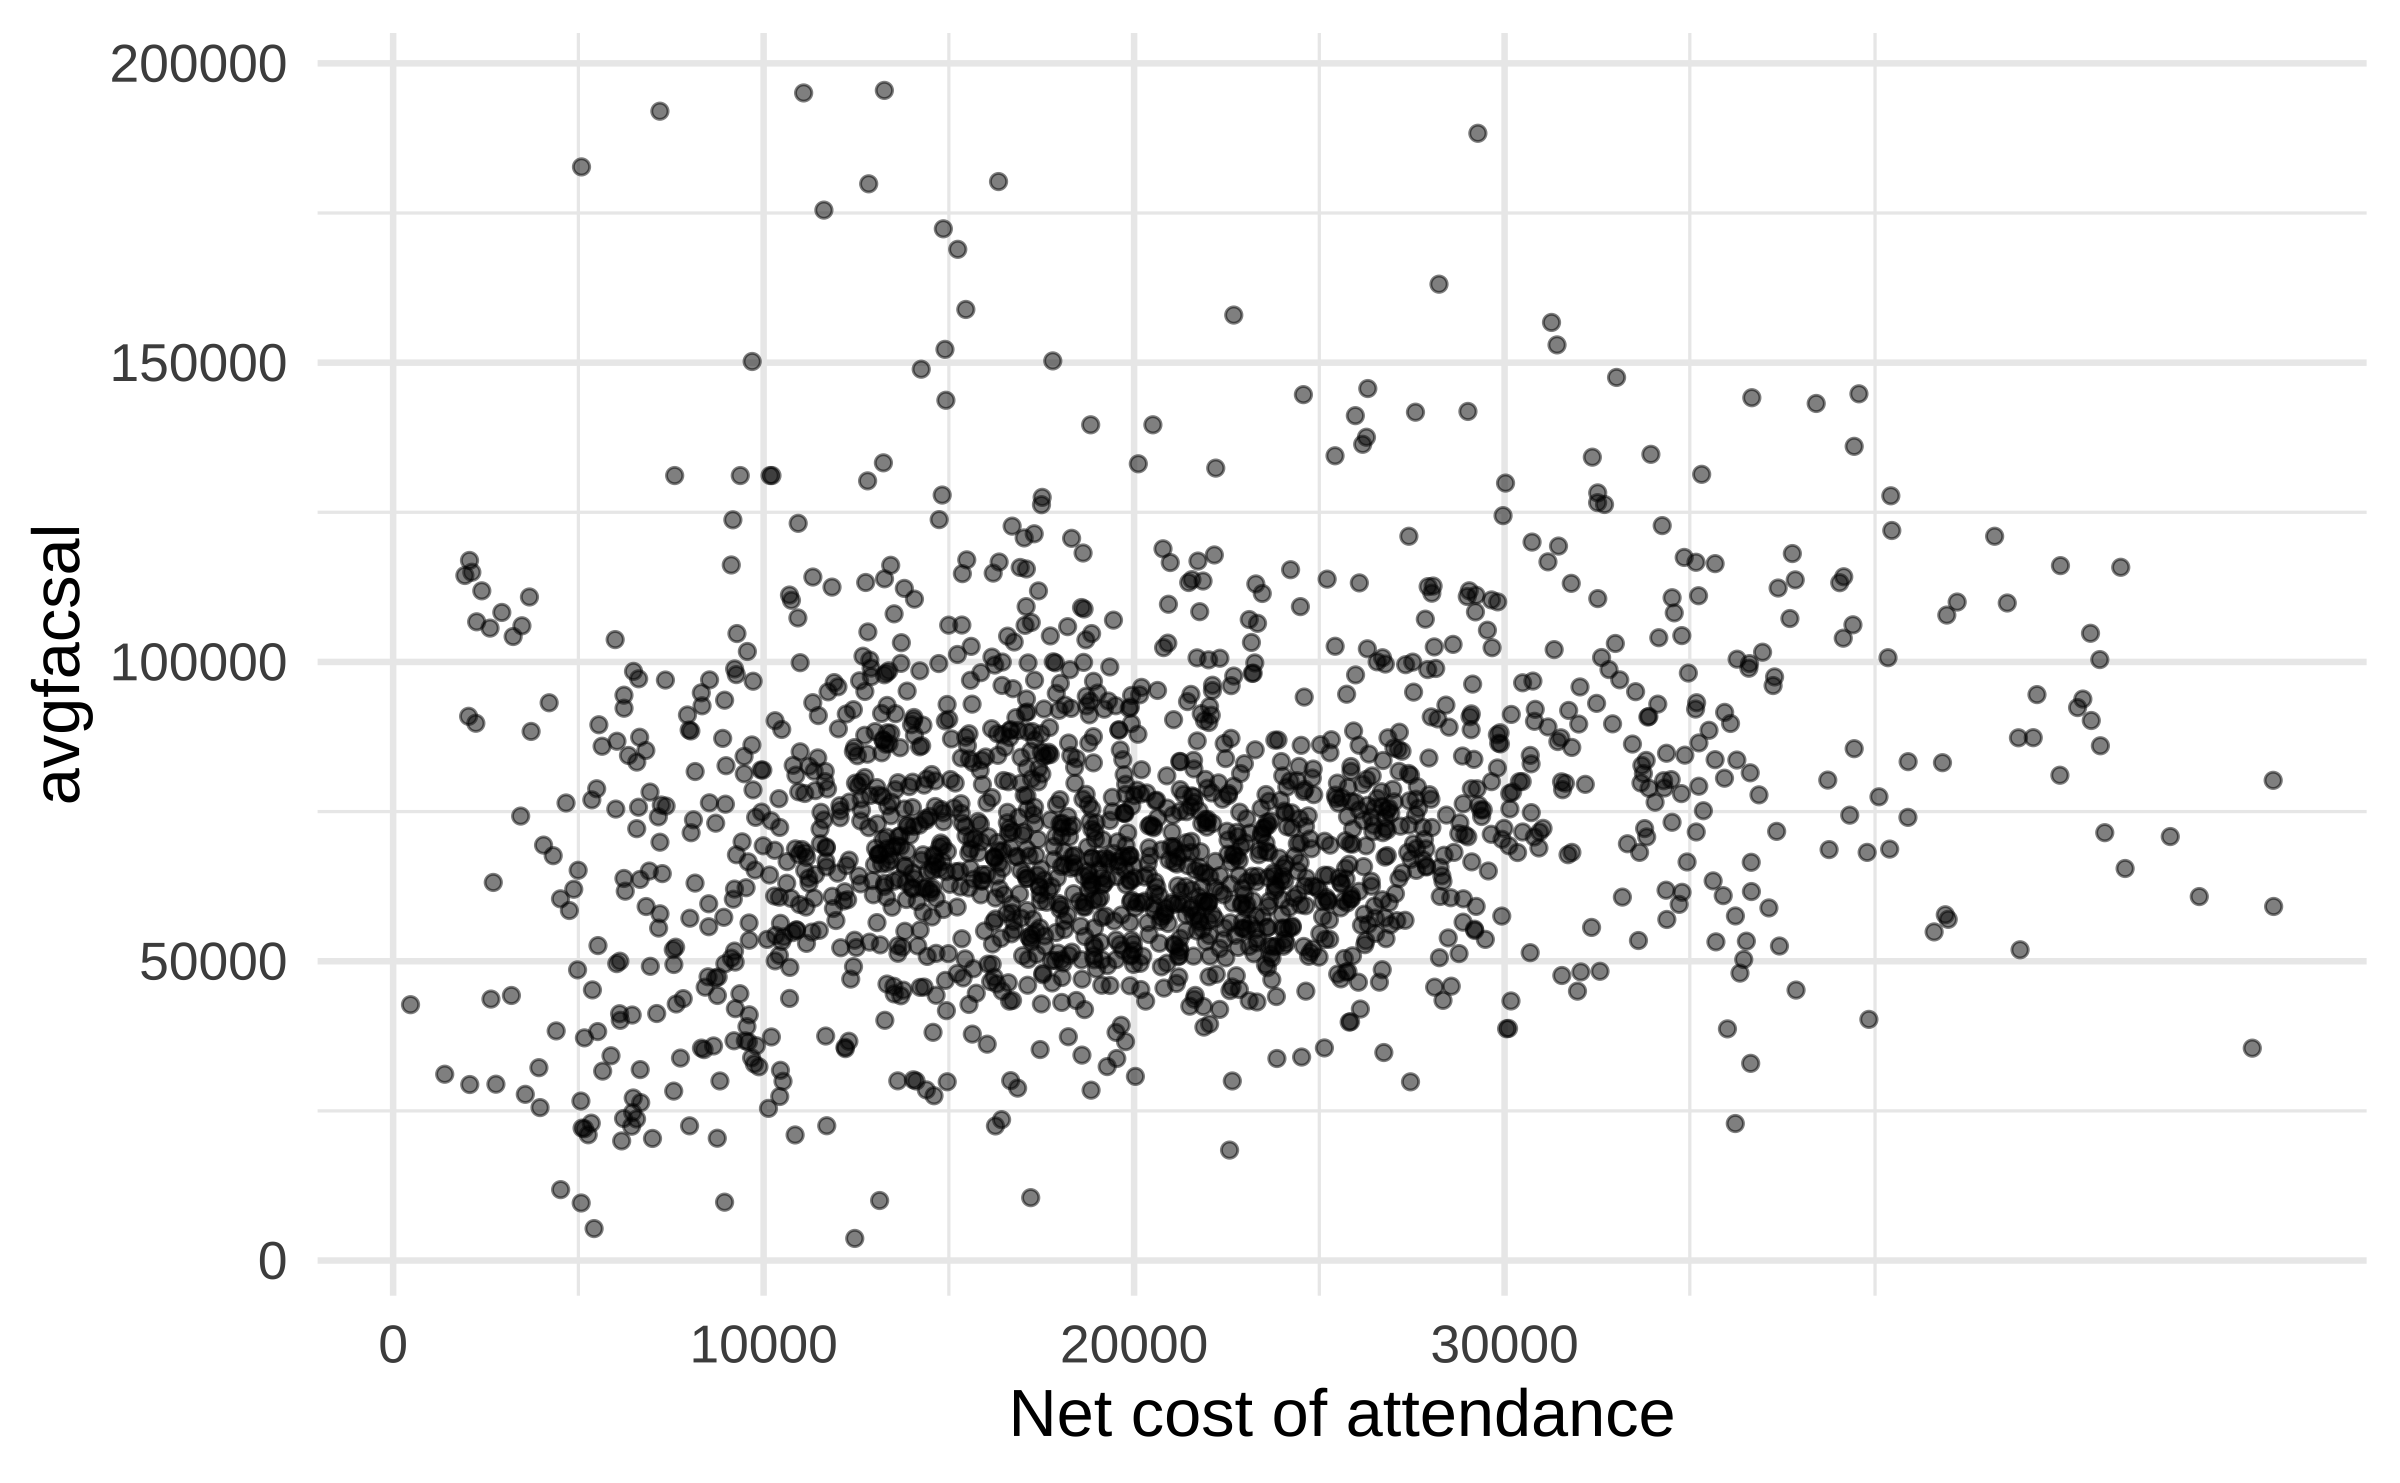
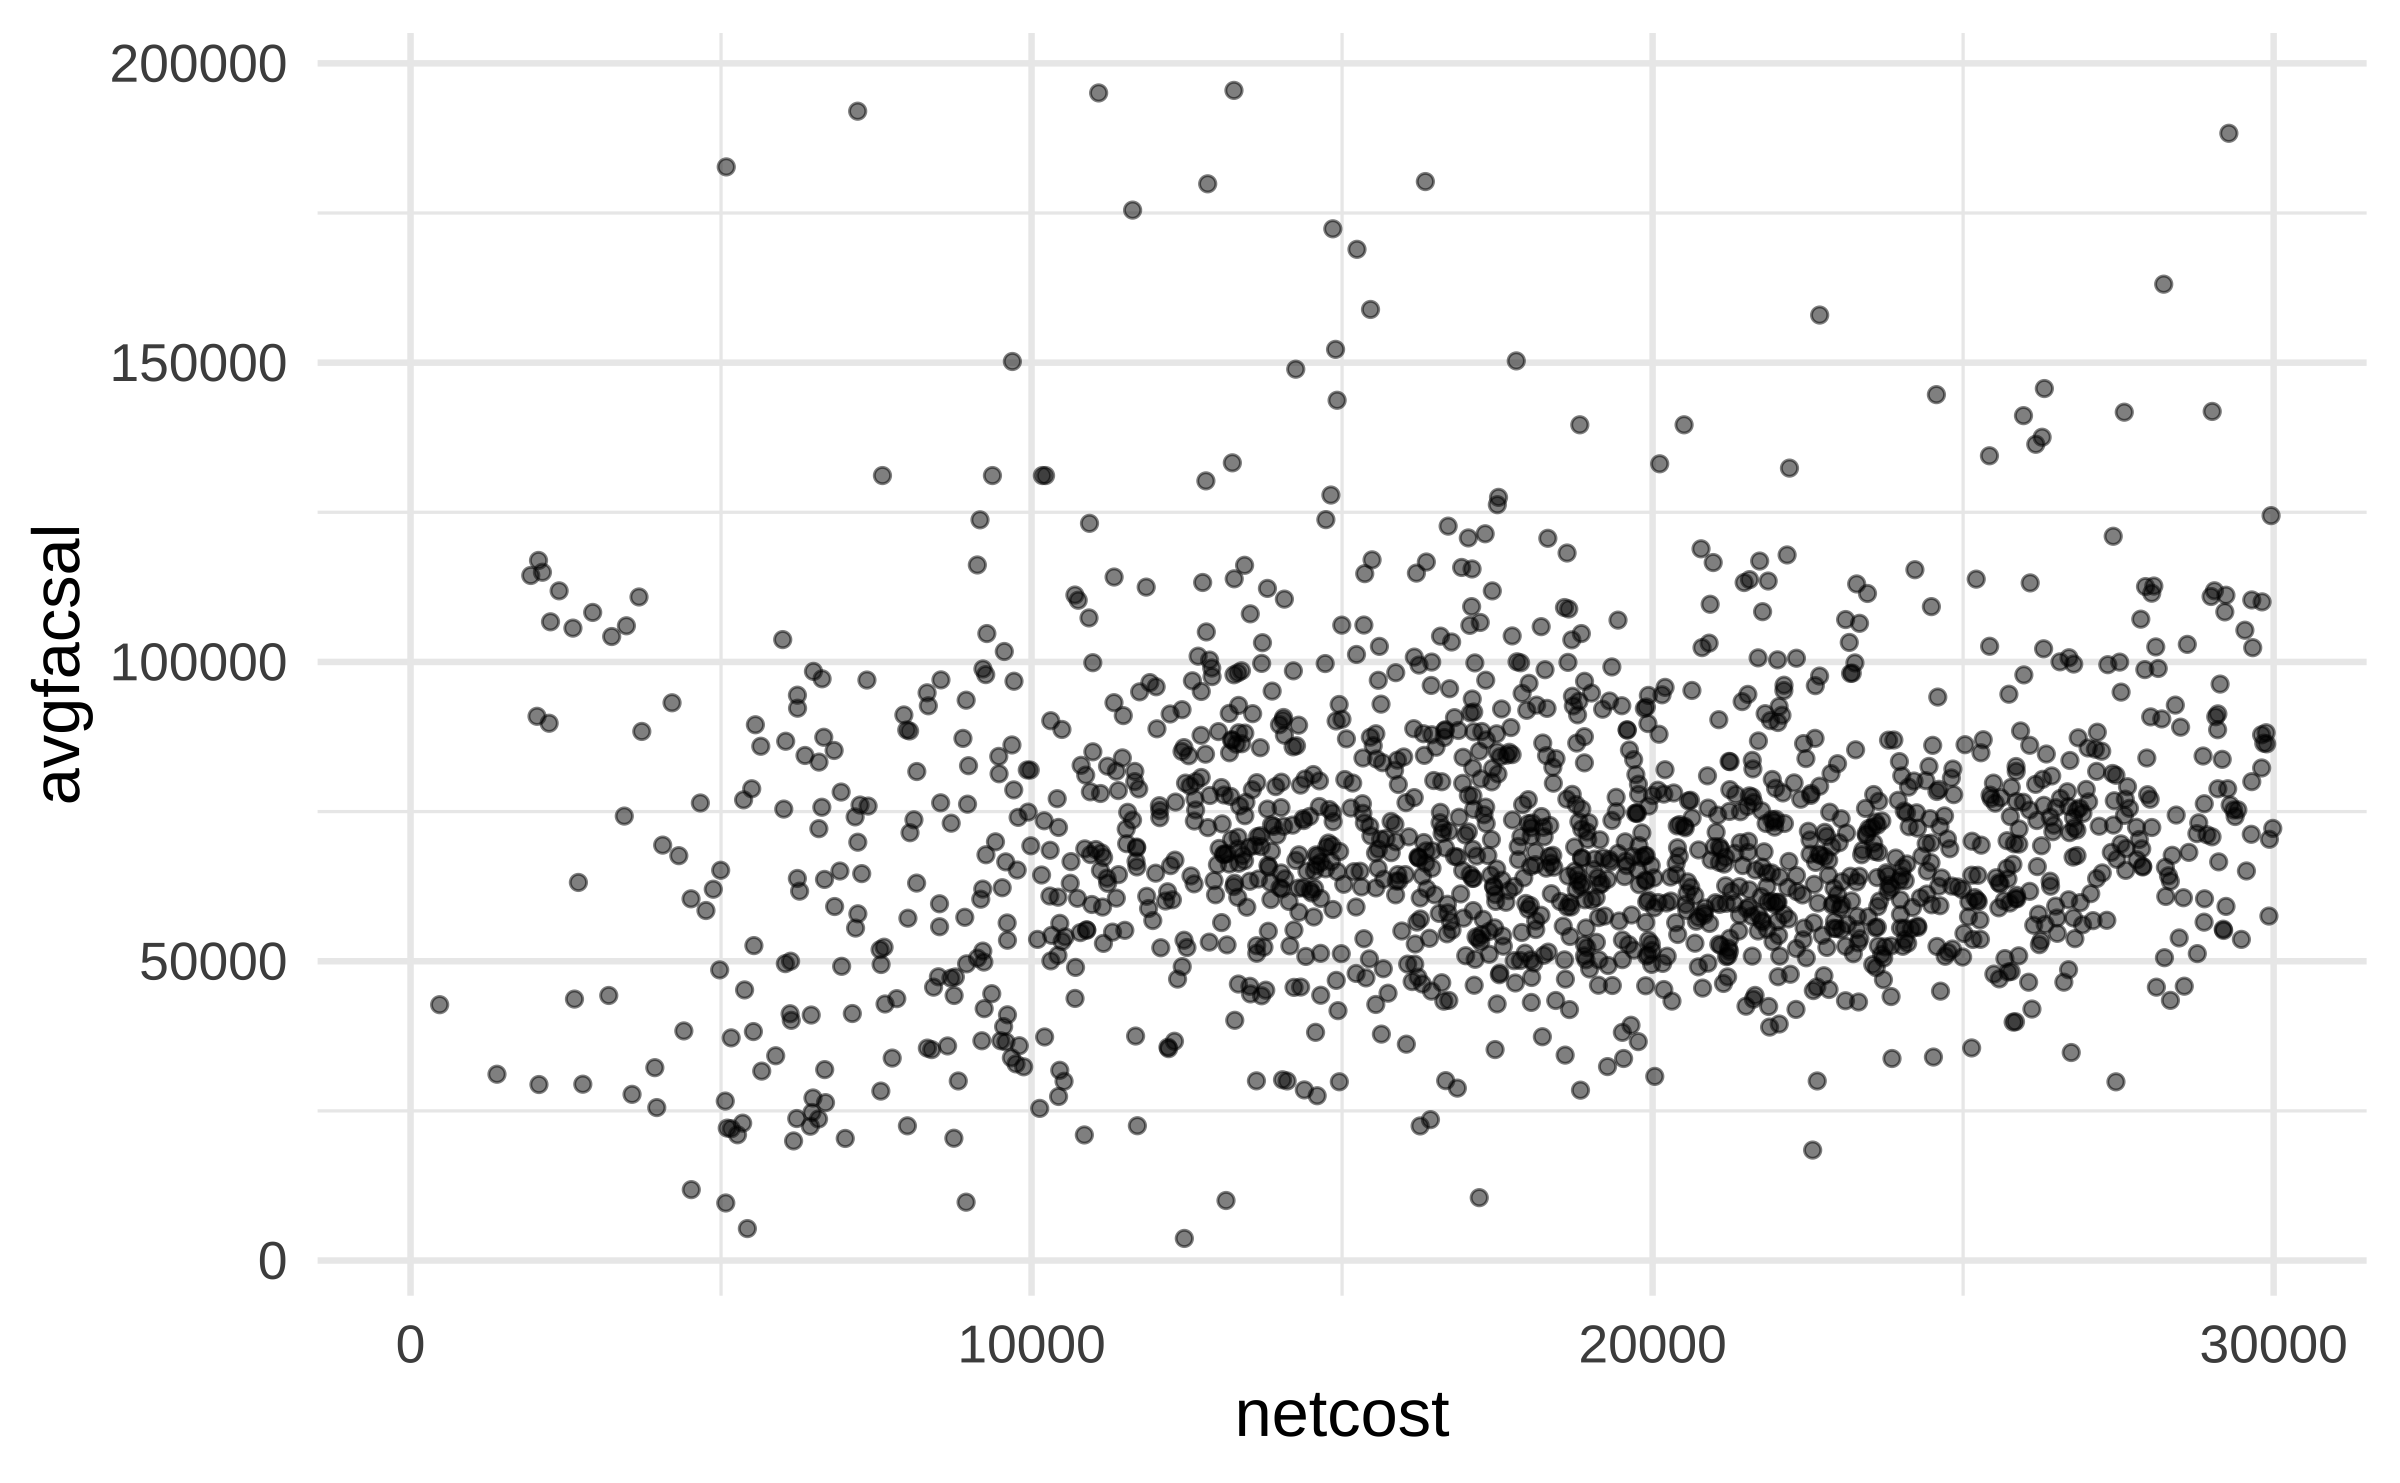
fix limits typo

diff --git a/static/slides/06-coordinates-facets/index.html b/static/slides/06-coordinates-facets/index.html
@@ -128,7 +128,7 @@ class: middle, inverse
 
 ## Setting limits: what the plots say
 Identify the differences: focus on the range of the `x` and `y` axes and the plots.
-<div class="countdown" id="timer_73eedf51" data-update-every="1" tabindex="0" style="top:0;right:0;">
+<div class="countdown" id="timer_281b88e9" data-update-every="1" tabindex="0" style="top:0;right:0;">
 <div class="countdown-controls"><button class="countdown-bump-down">&minus;</button><button class="countdown-bump-up">&plus;</button></div>
 <code class="countdown-time"><span class="countdown-digits minutes">05</span><span class="countdown-digits colon">:</span><span class="countdown-digits seconds">00</span></code>
 </div>
@@ -198,7 +198,7 @@ ggplot(penguins, aes(x = flipper_length_mm, y = body_mass_g, color = species)) +
 # DIDN'T WE SHOW THE OPPOSITE LAST WEEK?!!
 
 .panelset[
-.panel[.panel-name[Limits]
+.panel[.panel-name[Breaks]
 .pull-left[
 
 ```r
@@ -218,7 +218,7 @@ ggplot(scorecard,
 &lt;img src="index_files/figure-html/unnamed-chunk-5-1.png" width="90%" /&gt;
 ]
 ]
-.panel[.panel-name[Breaks]
+.panel[.panel-name[Limits]
 
 .pull-left[
 
